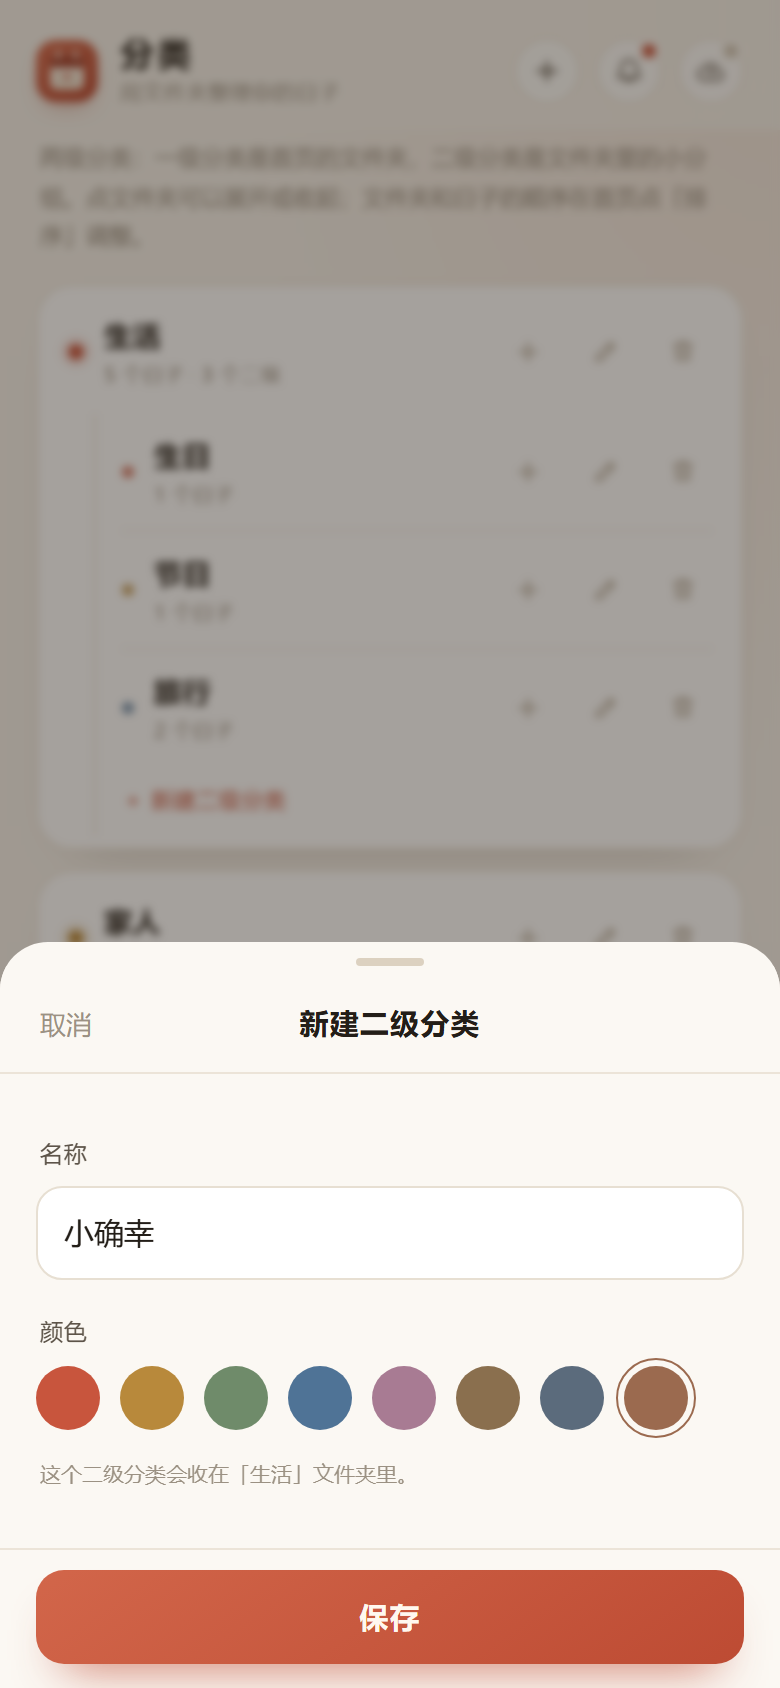
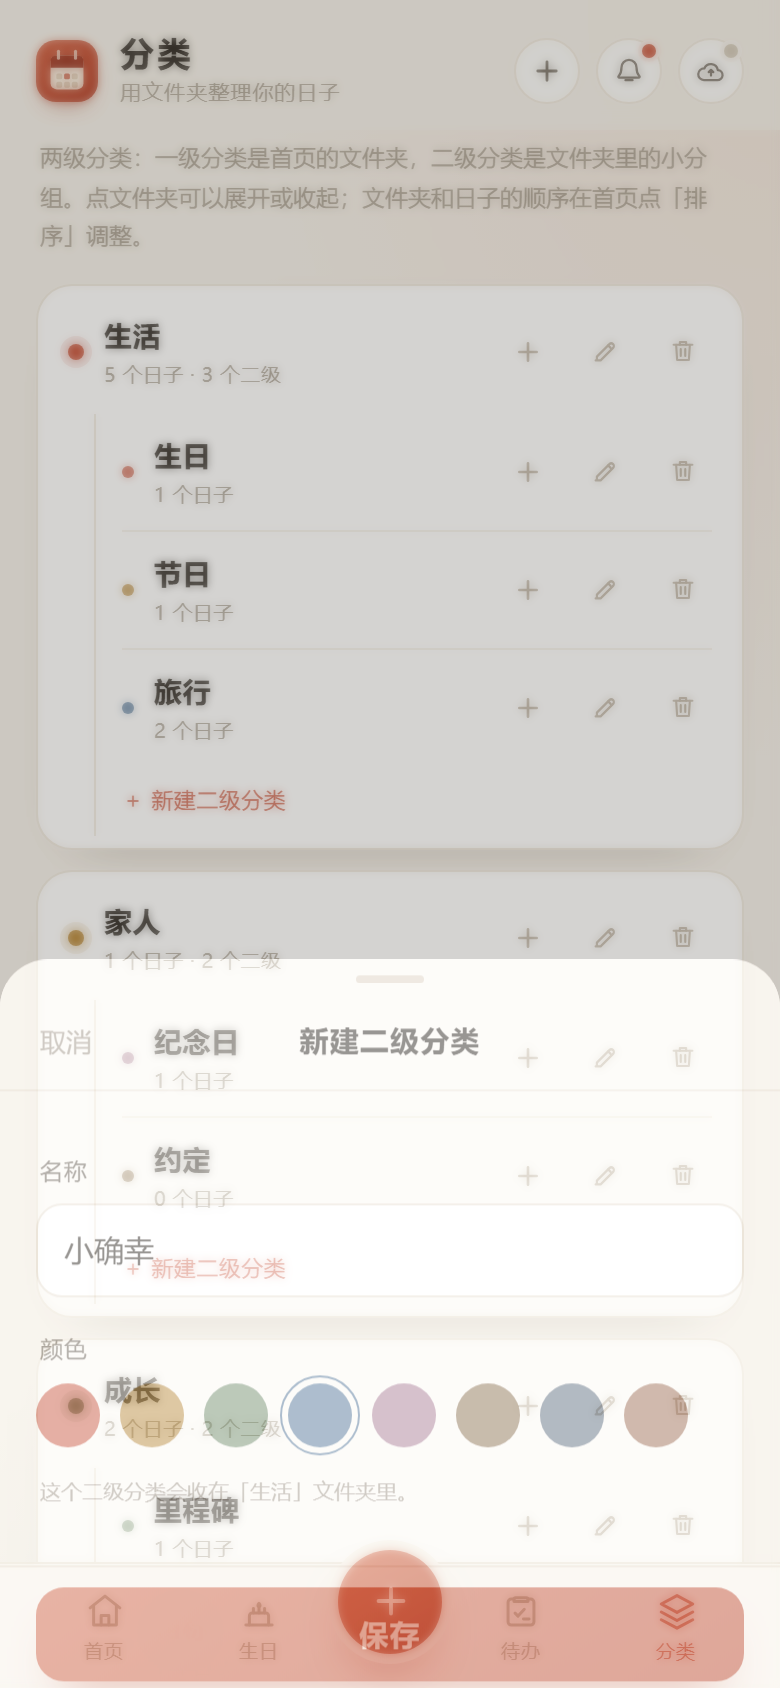
1.3.5修复滑动更改月份时前一个月份日期残影留存bug

diff --git a/手机端/native/www/app.js b/手机端/native/www/app.js
@@ -2144,6 +2144,7 @@ function startEditor(target, kind, preset) {
 }
 
 function closeEditor() {
+  clearCalLayers();
   closeLayer($('#editorLayer'));
   editor = null;
   blurActive();
@@ -2259,36 +2260,19 @@ function calendarCellsHTML(viewY, viewM) {
   return { html: cells.join(''), monthMarks };
 }
 
-function renderCalendar(dir = 0) {
+function renderCalendar() {
   if (!editor) return;
+  clearCalLayers();
   const { viewY, viewM } = editor;
   $('#calTitle').textContent = `${viewY}年${viewM}月`;
-  const grid = $('#calGrid');
-  const wrap = $('#calGridWrap');
-  grid.classList.remove('cal-in-left', 'cal-in-right', 'dragging');
-  grid.style.transform = '';
-  grid.style.opacity = '';
-  if (dir && wrap) {
-    const ghost = document.createElement('div');
-    ghost.className = `cal-grid cal-ghost ${dir > 0 ? 'cal-out-left' : 'cal-out-right'}`;
-    ghost.setAttribute('aria-hidden', 'true');
-    ghost.innerHTML = grid.innerHTML;
-    wrap.appendChild(ghost);
-    setTimeout(() => ghost.remove(), 320);
-  }
   const { html, monthMarks } = calendarCellsHTML(viewY, viewM);
-  grid.innerHTML = html;
-  if (dir) {
-    void grid.offsetWidth;
-    grid.classList.add(dir > 0 ? 'cal-in-right' : 'cal-in-left');
-  }
+  $('#calGrid').innerHTML = html;
   const noun = editor.kind === 'birthday' ? '生日' : '日子';
   $('#calEventsHint').textContent = monthMarks ? `本月 ${monthMarks} 个${noun}` : `本月暂无${noun}`;
 }
 
-/* 日历左右滑动切换月份：拖动时轻微跟手，松手超过阈值翻页 */
-function shiftCalendarMonth(step) {
-  if (!editor) return;
+/* 相邻月份（跨年时一起调整年份），超出 1900–2100 返回 null */
+function neighborMonth(step) {
   let m = editor.viewM + step;
   let y = editor.viewY;
   if (m < 1) {
@@ -2298,10 +2282,88 @@ function shiftCalendarMonth(step) {
     m = 1;
     y += 1;
   }
-  editor.viewM = m;
-  editor.viewY = Math.min(2100, Math.max(1900, y));
-  renderCalendar(step);
-  if (!$('#jumpPanel').hidden) renderJump();
+  if (y < 1900 || y > 2100) return null;
+  return { y, m };
+}
+
+/* ---------------------------- 翻月动画 ---------------------------- */
+/* 两层不透明的月历并排滑动：旧月从一侧滑出，新月从另一侧滑入，
+   两层始终首尾相接、互不重叠，因此不会出现两个月份的日期叠在一起 */
+
+const CAL_SLIDE_MS = 280;
+let calSlideTimer = 0;
+let calAnimating = false;
+
+function clearCalLayers() {
+  const grid = $('#calGrid');
+  if (grid) {
+    grid.classList.remove('cal-anim', 'dragging');
+    grid.style.transform = '';
+  }
+  $$('#calGridWrap .cal-ghost').forEach((layer) => layer.remove());
+  clearTimeout(calSlideTimer);
+  calAnimating = false;
+}
+
+function makeMonthLayer(html) {
+  const layer = document.createElement('div');
+  layer.className = 'cal-grid cal-ghost';
+  layer.setAttribute('aria-hidden', 'true');
+  layer.innerHTML = html;
+  $('#calGridWrap').appendChild(layer);
+  return layer;
+}
+
+/* sign > 0：翻到下个月（新月从右侧进入）；sign < 0：上个月（从左侧进入）
+   startDx 是松手时当前层已经拖到的位移，动画从这里接着走 */
+function slideToMonth(sign, startDx = 0) {
+  if (!editor || calAnimating) return;
+  const grid = $('#calGrid');
+  const nb = neighborMonth(sign);
+  if (!grid || !nb) return;
+  const width = grid.offsetWidth || $('#calGridWrap').clientWidth;
+  if (!width) return;
+  const dx = Math.max(-width, Math.min(width, startDx));
+  clearCalLayers();
+  const layer = makeMonthLayer(calendarCellsHTML(nb.y, nb.m).html);
+  grid.style.transform = `translateX(${dx}px)`;
+  layer.style.transform = `translateX(${sign * width + dx}px)`;
+  void grid.offsetWidth;
+  calAnimating = true;
+  grid.classList.add('cal-anim');
+  layer.classList.add('cal-anim');
+  requestAnimationFrame(() => {
+    grid.style.transform = `translateX(${-sign * width}px)`;
+    layer.style.transform = 'translateX(0)';
+  });
+  calSlideTimer = setTimeout(() => {
+    if (!editor) {
+      clearCalLayers();
+      return;
+    }
+    editor.viewY = nb.y;
+    editor.viewM = nb.m;
+    renderCalendar();
+    if (!$('#jumpPanel').hidden) renderJump();
+  }, CAL_SLIDE_MS + 30);
+}
+
+/* 位移不够时弹回原月份 */
+function snapBackMonth(sign, startDx) {
+  const grid = $('#calGrid');
+  const layer = $('#calGridWrap .cal-ghost');
+  if (!grid) return;
+  const width = grid.offsetWidth || 0;
+  grid.classList.remove('dragging');
+  if (layer) layer.classList.remove('dragging');
+  grid.classList.add('cal-anim');
+  if (layer) layer.classList.add('cal-anim');
+  grid.style.transform = 'translateX(0)';
+  if (layer) layer.style.transform = `translateX(${sign * width}px)`;
+  calAnimating = true;
+  calSlideTimer = setTimeout(() => {
+    clearCalLayers();
+  }, CAL_SLIDE_MS + 30);
 }
 
 let calDrag = null;
@@ -2311,12 +2373,6 @@ function bindCalendarSwipe() {
   const wrap = $('#calGridWrap');
   const grid = $('#calGrid');
   if (!wrap || !grid) return;
-  const reset = () => {
-    grid.classList.remove('dragging');
-    grid.style.transform = '';
-    grid.style.opacity = '';
-    calDrag = null;
-  };
   wrap.addEventListener(
     'click',
     (event) => {
@@ -2331,56 +2387,75 @@ function bindCalendarSwipe() {
   wrap.addEventListener('pointerdown', (event) => {
     // 新的按下说明是用户主动点击，取消上一次拖动留下的点击拦截
     calSwipeGuard = 0;
-    if (!editor || !editor.calOpen) return;
+    if (!editor || !editor.calOpen || calAnimating) return;
     if (event.pointerType === 'mouse' && event.button !== 0) return;
-    calDrag = { id: event.pointerId, x: event.clientX, y: event.clientY, dx: 0, active: false, locked: false };
+    calDrag = { id: event.pointerId, x: event.clientX, y: event.clientY, dx: 0, width: 0, sign: 0, layer: null, active: false, locked: false };
   });
   wrap.addEventListener('pointermove', (event) => {
-    if (!calDrag || (calDrag.id !== undefined && event.pointerId !== calDrag.id)) return;
+    if (!calDrag || event.pointerId !== calDrag.id) return;
     const dx = event.clientX - calDrag.x;
     const dy = event.clientY - calDrag.y;
     if (!calDrag.active) {
-      if (calDrag.locked || (Math.abs(dx) < 10 && Math.abs(dy) < 10)) return;
+      if (calDrag.locked || (Math.abs(dx) < 8 && Math.abs(dy) < 8)) return;
       if (Math.abs(dy) >= Math.abs(dx)) {
         calDrag.locked = true;
         return;
       }
+      const sign = dx < 0 ? 1 : -1;
+      const nb = neighborMonth(sign);
+      const width = grid.offsetWidth;
+      if (!nb || !width) {
+        calDrag.locked = true;
+        return;
+      }
       calDrag.active = true;
+      calDrag.sign = sign;
+      calDrag.width = width;
+      calDrag.layer = makeMonthLayer(calendarCellsHTML(nb.y, nb.m).html);
+      calDrag.layer.style.transform = `translateX(${sign * width}px)`;
       grid.classList.add('dragging');
+      calDrag.layer.classList.add('dragging');
       try {
         wrap.setPointerCapture(event.pointerId);
       } catch (err) {
         /* 指针已失效时忽略 */
       }
     }
-    calDrag.dx = dx;
-    const capped = Math.max(-64, Math.min(64, dx)) * 0.5;
-    grid.style.transform = `translateX(${capped.toFixed(1)}px)`;
-    grid.style.opacity = String(Math.max(0.72, 1 - Math.abs(capped) / 180));
+    const width = calDrag.width;
+    const moved = calDrag.sign > 0 ? Math.max(-width, Math.min(0, dx)) : Math.min(width, Math.max(0, dx));
+    calDrag.dx = moved;
+    grid.style.transform = `translateX(${moved}px)`;
+    if (calDrag.layer) calDrag.layer.style.transform = `translateX(${calDrag.sign * width + moved}px)`;
   });
   const finish = (event) => {
     if (!calDrag) return;
-    if (calDrag.id !== undefined && event.pointerId !== calDrag.id) return;
-    const dx = calDrag.dx;
-    const active = calDrag.active;
+    if (event.pointerId !== calDrag.id) return;
+    const { dx, sign, active } = calDrag;
     calDrag = null;
     if (!active) return;
     calSwipeGuard = Date.now();
     grid.classList.remove('dragging');
-    grid.style.transform = '';
-    grid.style.opacity = '';
-    if (Math.abs(dx) >= 48) shiftCalendarMonth(dx < 0 ? 1 : -1);
+    if (Math.abs(dx) >= 48) {
+      slideToMonth(sign, dx);
+    } else {
+      snapBackMonth(sign, dx);
+    }
   };
   wrap.addEventListener('pointerup', finish);
   wrap.addEventListener('pointercancel', () => {
-    if (calDrag && calDrag.active) reset();
-    else calDrag = null;
+    if (!calDrag) return;
+    const { sign, active } = calDrag;
+    calDrag = null;
+    if (active) snapBackMonth(sign, 0);
   });
   wrap.addEventListener('lostpointercapture', (event) => {
     // 触摸按下时浏览器会把指针隐式捕获到某个日期按钮上，我们改为捕获到 wrap 时
     // 该按钮会先抛 lostpointercapture 并冒泡到这里，那不是拖动结束。
     if (event.target !== wrap) return;
-    if (calDrag && calDrag.active) reset();
+    if (!calDrag) return;
+    const { sign, active } = calDrag;
+    calDrag = null;
+    if (active) snapBackMonth(sign, 0);
   });
 }
 
@@ -3000,7 +3075,7 @@ document.addEventListener('click', (event) => {
 
     case 'cal-prev':
     case 'cal-next':
-      shiftCalendarMonth(act === 'cal-prev' ? -1 : 1);
+      slideToMonth(act === 'cal-prev' ? -1 : 1);
       break;
     case 'cal-jump':
       toggleJump();

diff --git a/手机端/native/www/styles.css b/手机端/native/www/styles.css
@@ -1780,84 +1780,33 @@ svg {
   position: relative;
   overflow: hidden;
   touch-action: pan-y;
+  background: var(--surface);
 }
 
 .cal-grid {
   display: grid;
   grid-template-columns: repeat(7, 1fr);
   row-gap: 1px;
-  transition: transform 0.26s cubic-bezier(0.22, 1, 0.36, 1), opacity 0.26s ease;
-  will-change: transform, opacity;
+  background: var(--surface);
+  will-change: transform;
 }
 
-.cal-grid.dragging {
+.cal-grid.dragging,
+.cal-ghost.dragging {
   transition: none;
+}
+
+/* 翻月动画：旧月滑出、新月从另一侧滑入，两层首尾相接、互不重叠 */
+.cal-grid.cal-anim {
+  transition: transform 0.3s cubic-bezier(0.22, 1, 0.36, 1);
 }
 
 .cal-ghost {
   position: absolute;
   inset: 0;
   pointer-events: none;
-}
-
-.cal-grid.cal-in-right {
-  animation: cal-in-right 0.26s cubic-bezier(0.22, 1, 0.36, 1);
-}
-
-.cal-grid.cal-in-left {
-  animation: cal-in-left 0.26s cubic-bezier(0.22, 1, 0.36, 1);
-}
-
-.cal-grid.cal-out-left {
-  animation: cal-out-left 0.26s cubic-bezier(0.22, 1, 0.36, 1) forwards;
-}
-
-.cal-grid.cal-out-right {
-  animation: cal-out-right 0.26s cubic-bezier(0.22, 1, 0.36, 1) forwards;
-}
-
-@keyframes cal-in-right {
-  from {
-    transform: translateX(34px);
-    opacity: 0.3;
-  }
-  to {
-    transform: translateX(0);
-    opacity: 1;
-  }
-}
-
-@keyframes cal-in-left {
-  from {
-    transform: translateX(-34px);
-    opacity: 0.3;
-  }
-  to {
-    transform: translateX(0);
-    opacity: 1;
-  }
-}
-
-@keyframes cal-out-left {
-  from {
-    transform: translateX(0);
-    opacity: 1;
-  }
-  to {
-    transform: translateX(-34px);
-    opacity: 0.3;
-  }
-}
-
-@keyframes cal-out-right {
-  from {
-    transform: translateX(0);
-    opacity: 1;
-  }
-  to {
-    transform: translateX(34px);
-    opacity: 0.3;
-  }
+  background: var(--surface);
+  z-index: 1;
 }
 
 .cal-cell {

diff --git a/README.md b/README.md
@@ -9,7 +9,7 @@
 另有两个轻量页面：记生日的「生日」，和随手记小事的「待办」。
 到日子时还能用系统通知提醒你。
 
-当前版本：**1.3.4**
+当前版本：**1.3.5**
 
 ## 功能
 
@@ -28,6 +28,11 @@
 - **本地存储**：数据保存在手机本地，离线可用，不上传其他服务器。
 
 ## 更新日志
+
+### 1.3.5
+
+- 修复日历滑动翻月时上一月份日期残影的问题：改为两层不透明的月历并排平移，旧月整层滑出、新月整层滑入，两层始终首尾相接、互不重叠；拖动过程也能看到下个月的完整日历，松手后接着滑动到位。
+- 拖动距离不足时会平滑弹回原月份，不再瞬间跳回。
 
 ### 1.3.4
 
@@ -149,7 +154,7 @@
 ```
 优日/
 ├─ 手机端/
-│  ├─ 优日-1.3.4.apk      # 可直接安装
+│  ├─ 优日-1.3.5.apk      # 可直接安装
 │  ├─ 使用说明.txt
 │  └─ native/             # Capacitor + 原生 Android 工程
 │     ├─ www/             # 应用本体（HTML / CSS / JS）
@@ -172,7 +177,7 @@ powershell -ExecutionPolicy Bypass -File .\build-apk.ps1
 
 ## 说明
 
-- 应用 ID：`com.youri.anniversary`，版本 1.3.4，最低支持 Android 7.0（API 24）。
+- 应用 ID：`com.youri.anniversary`，版本 1.3.5，最低支持 Android 7.0（API 24）。
 - 提醒使用 Android 本地通知（通知权限、精确闹钟、开机恢复），全部在本机触发，不联网、不上传提醒内容；可以随时在系统设置里关闭。
 - 数据只在本机 WebView 的 localStorage 中；卸载应用会一并清除。
 - 网页部分可直接在浏览器打开 `手机端/native/www/index.html` 预览；加 `?demo=1` 可载入演示数据（不写入本地）。
